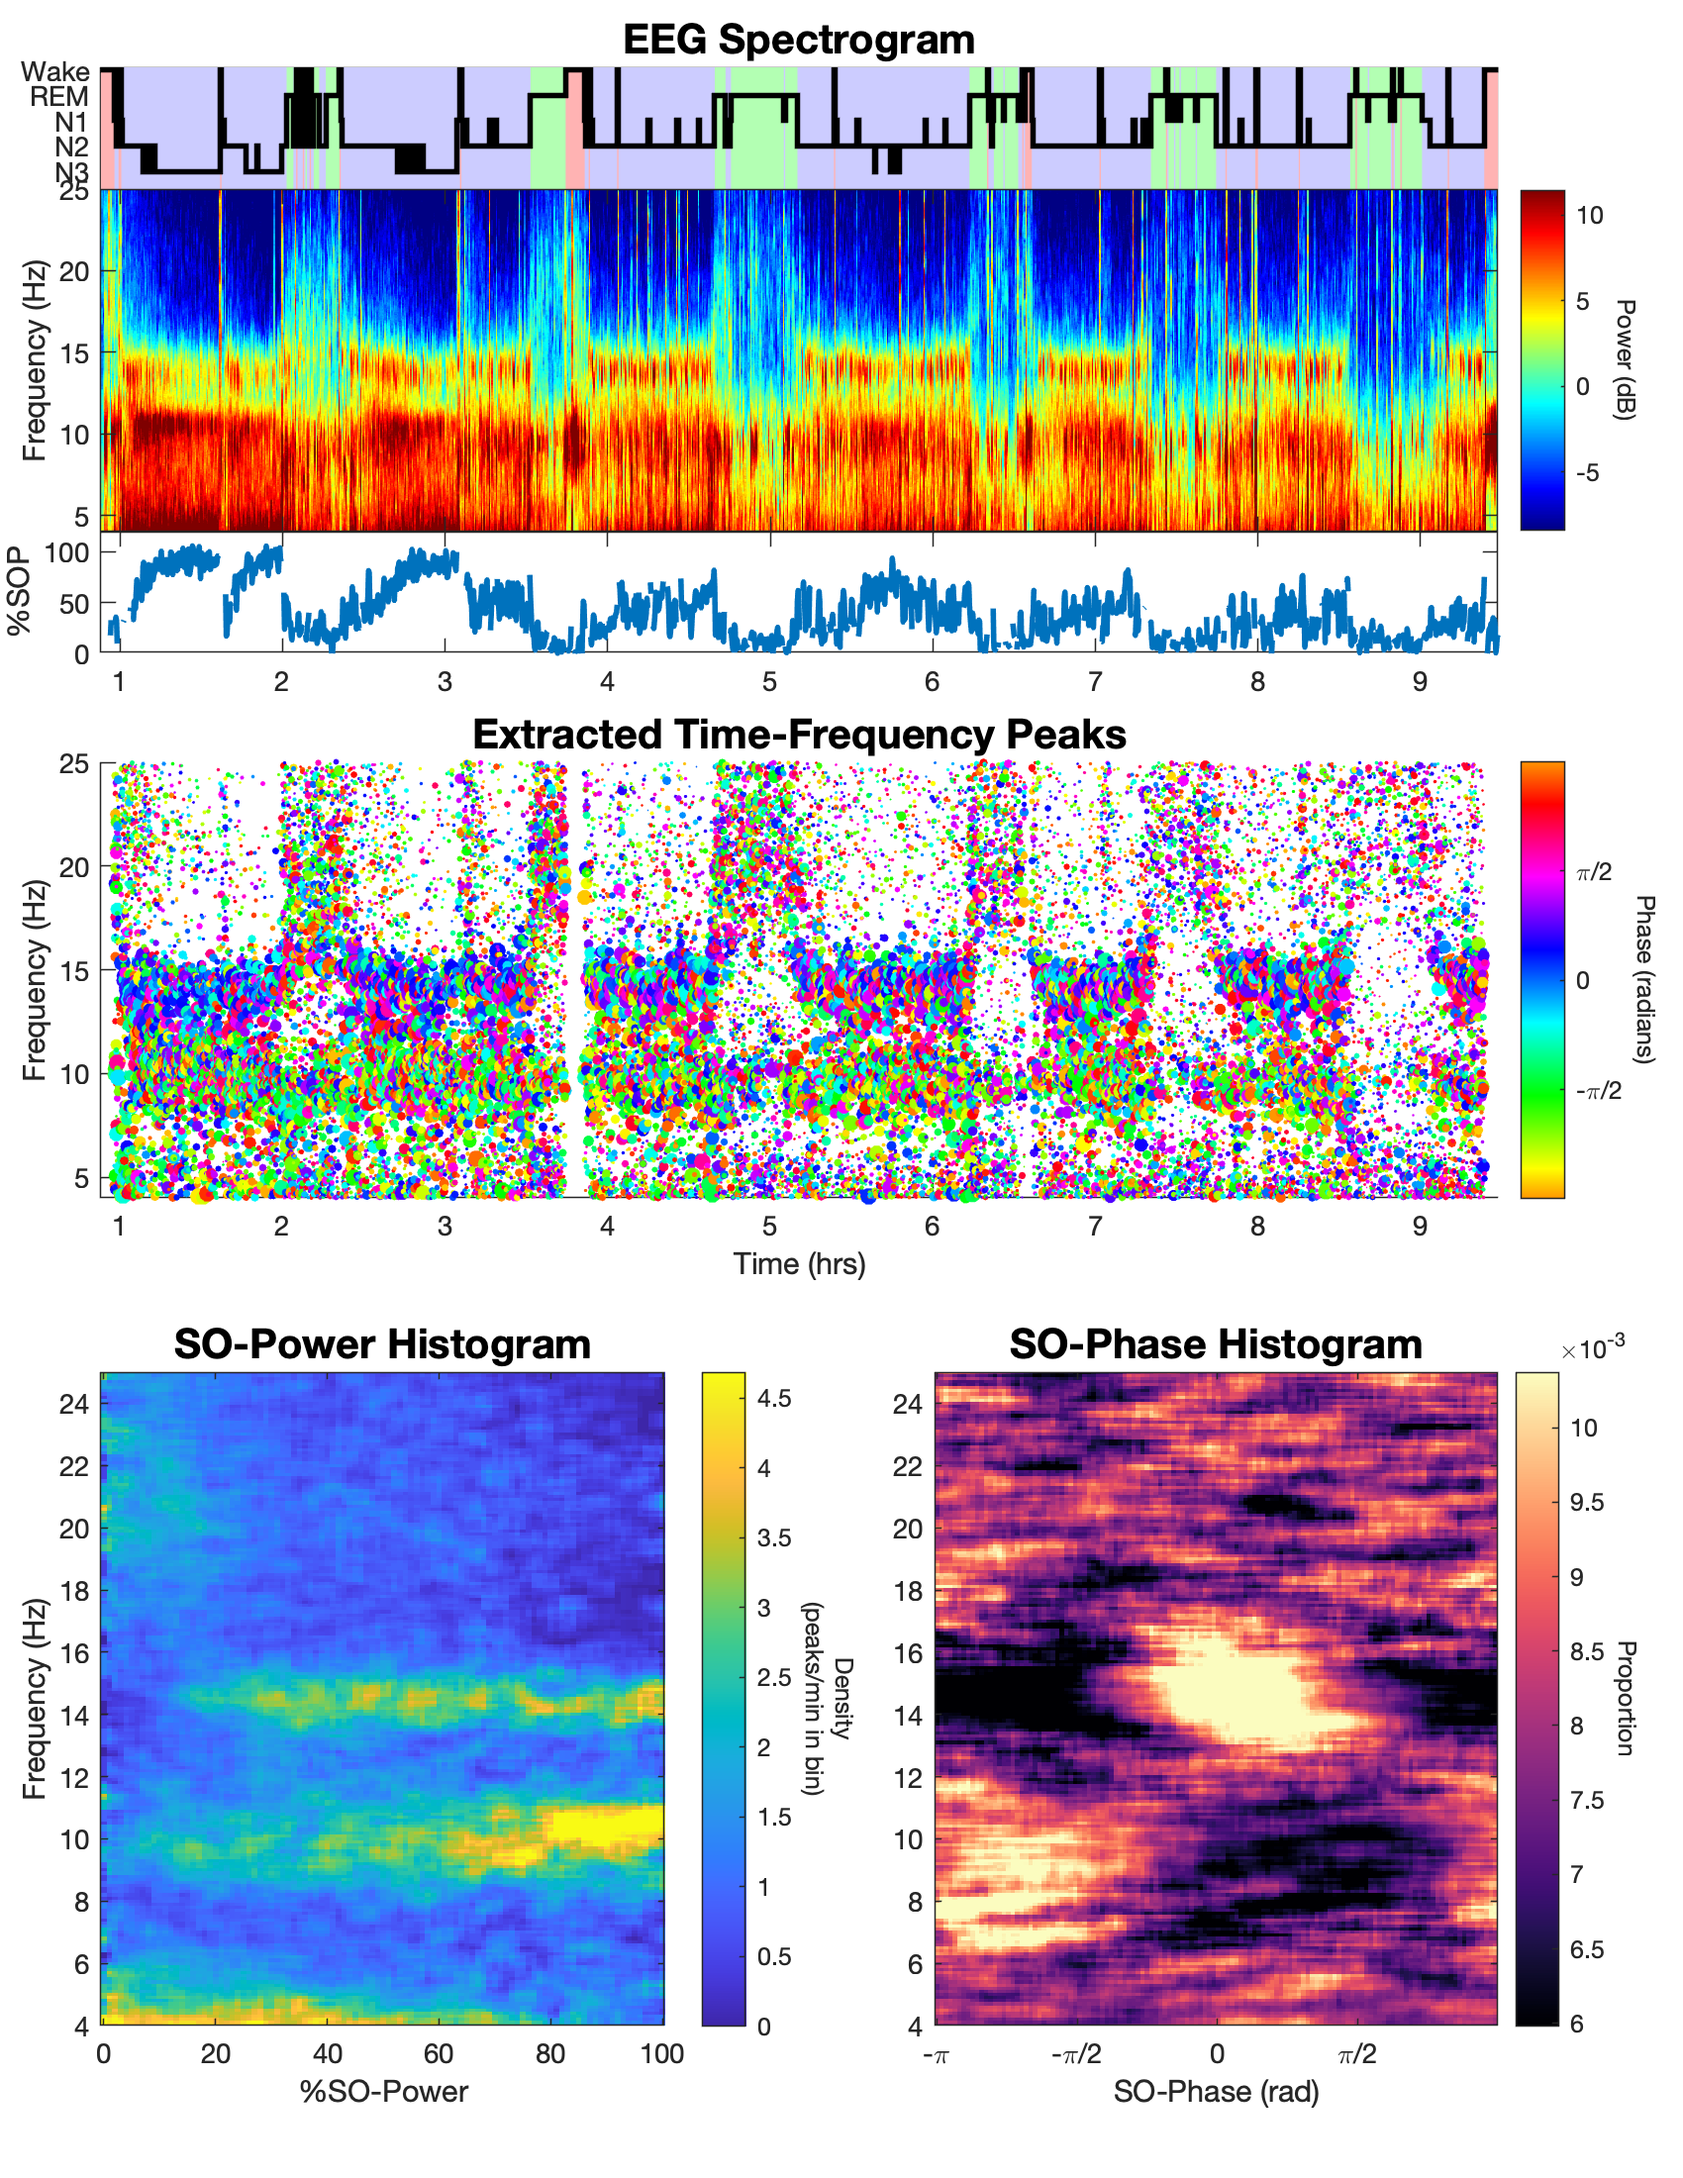
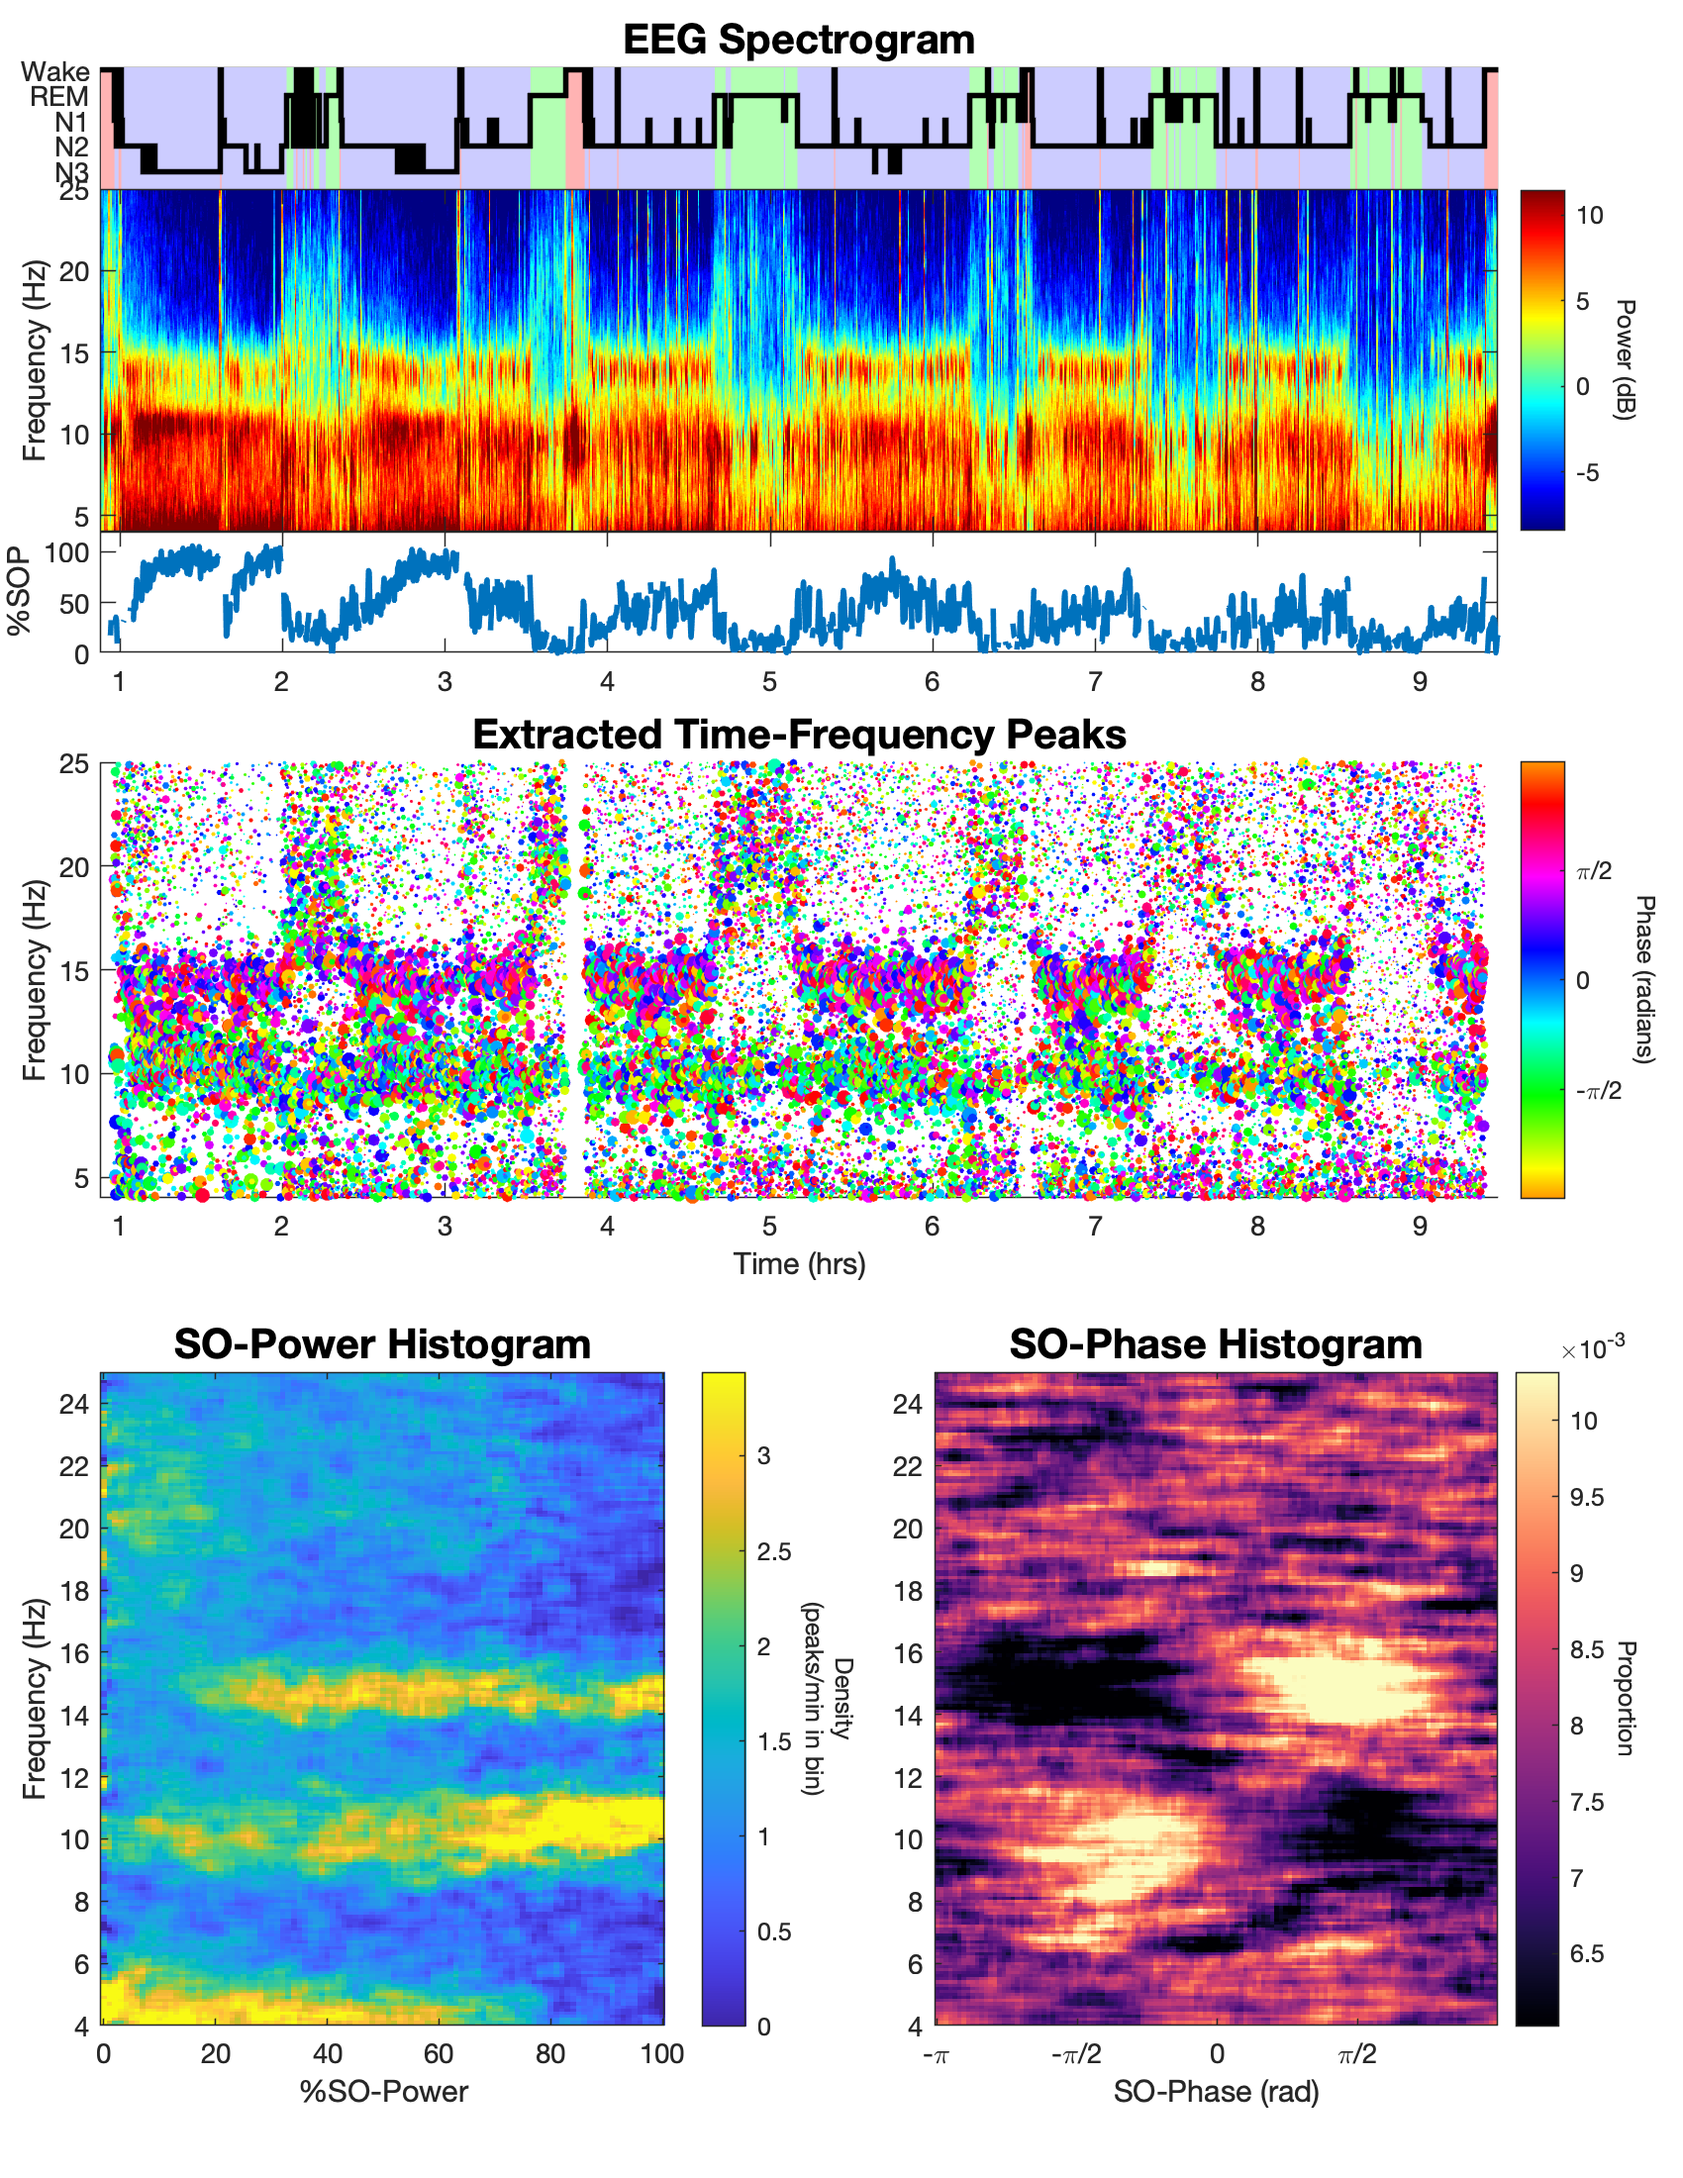
added draft mode with 10x speedup

diff --git a/toolbox/watershed_functions/run_watershed_SOpowphase.m b/toolbox/watershed_functions/run_watershed_SOpowphase.m
@@ -96,9 +96,12 @@ switch lower(spect_settings)
         df = 0.1; % For consistency with our results we expect a df of 0.1 Hz or less
     case 'fast' %3x speed improvement with little accuracy reduction
         time_window_params = [1,0.1]; % [time window, time step] in seconds
-        df = 0.2; % For consistency with our results we expect a df of 0.1 Hz or less
+        df = 0.2;
+    case 'draft' %10x speed improvement with but phase shift
+        time_window_params = [1,0.25]; % [time window, time step] in seconds
+        df = 0.5;
     otherwise
-        error('spect_settings must be ''paper'' or ''fast''')
+        error('spect_settings must be ''paper'', ''fast'', or ''draft''')
 end
 
 freq_range = [0,30]; % frequency range to compute spectrum over (Hz)

diff --git a/example_script.m b/example_script.m
@@ -20,7 +20,7 @@ load('example_data/example_data.mat', 'EEG', 'stage_vals', 'stage_times', 'Fs');
 addpath(genpath('./toolbox'))
 
 %Select 'segment' or 'night' for example data range
-data_range = 'segment'; 
+data_range = 'night'; 
 
 switch data_range
     case 'segment'
@@ -43,7 +43,7 @@ end
 
 %% RUN WATERSHED AND COMPUTE SO-POWER/PHASE HISTOGRAMS
 
-WS_settings = "fast"; %Change 'paper' to settings used in SLEEP paper
+WS_settings = "draft"; %Change 'paper' to settings used in SLEEP paper
 
 [peak_props, SOpow_mat, SOphase_mat, SOpow_bins, SOphase_bins, freq_bins, spect, stimes, sfreqs, SOpower_norm, SOpow_times] = run_watershed_SOpowphase(EEG, Fs, stage_times, stage_vals, 'time_range', time_range,'spect_settings',WS_settings);
 
